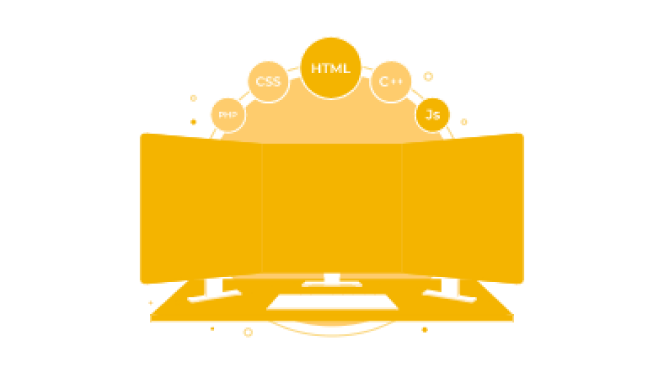
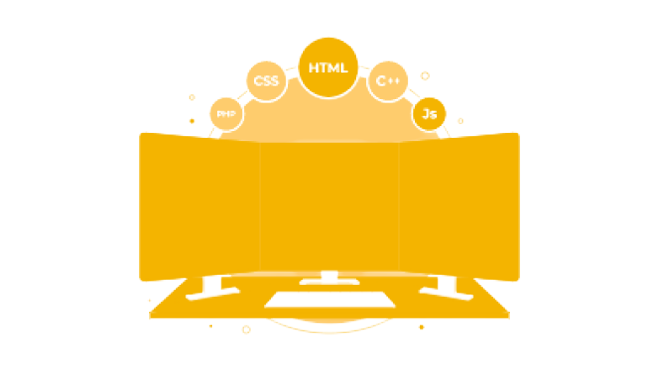
Home Page Responsivness: Width = [320px, infinte]

diff --git a/src/Pages/Home/home.css b/src/Pages/Home/home.css
@@ -28,6 +28,7 @@
     display: flex;
     flex-direction: column;
     gap: 20px;
+    margin-left: 40px;
 }
 
 .horizontal-container {
@@ -73,6 +74,11 @@
 .home-section .heading {
     font-size: 34px;
     font-weight: 500;
+}
+
+.home-section .section-image {
+    width: 50%;
+    margin-right: -40px;
 }
 
 .wwd-section .heading {
@@ -146,6 +152,7 @@
 
 .contacts-section .info {
     font-size: 18px;
+    text-align: center;
 }
 
 .contacts-section .icons {
@@ -157,4 +164,58 @@
     font-size: 25px;
     margin: 20px 0;
     color: #4285F4;
+}
+
+@media screen and (max-width: 1100px) {
+    .front-section .wrapper {
+        justify-content: center;
+    }
+    .front-section .home-custom-container > .horizontal-container {
+        flex-direction: column;
+        text-align: center;
+    }
+    .front-section .home-custom-container {
+        align-items: center;
+        margin-left: 0;
+    }
+    .front-section .soceity-info {
+        text-align: center;
+    }
+    .front-section .section-image {
+        display: none;
+    }
+}
+
+@media screen and (max-width: 600px) {
+    .home-section {
+        padding-left: 0;
+        padding-right: 0;
+    }
+    .front-section .soceity-info {
+        display: none;
+    }
+}
+
+@media screen and (max-width: 400px) {
+    .wwd-section .heading {
+        font-size: 30px;
+        margin: 0;
+    }
+    .front-section .soceity-name {
+        font-size: 20px;
+    }
+    .front-section .college-name {
+        font-size: 14px;
+    }
+    .home-section .home-card {
+        width: 250px;
+        margin-left: 0;
+        margin-right: 0;
+    }
+    .contacts-section .heading {
+        font-size: 30px;
+    }
+    .contacts-section .info {
+        font-size: 16px;
+    }
 }

diff --git a/src/Pages/Home/FrontSection.jsx b/src/Pages/Home/FrontSection.jsx
@@ -20,7 +20,7 @@ export default function FrontSection(props) {
                     <div className="soceity-info">{content}</div>
                     <Link className="lets-connect-button" to="/contacts">Lets Connect</Link>
                 </div>
-                <img src={section_img} alt="Geeky" />
+                <img className="section-image" src={section_img} alt="Geeky" />
             </div>
         </section>
     );
